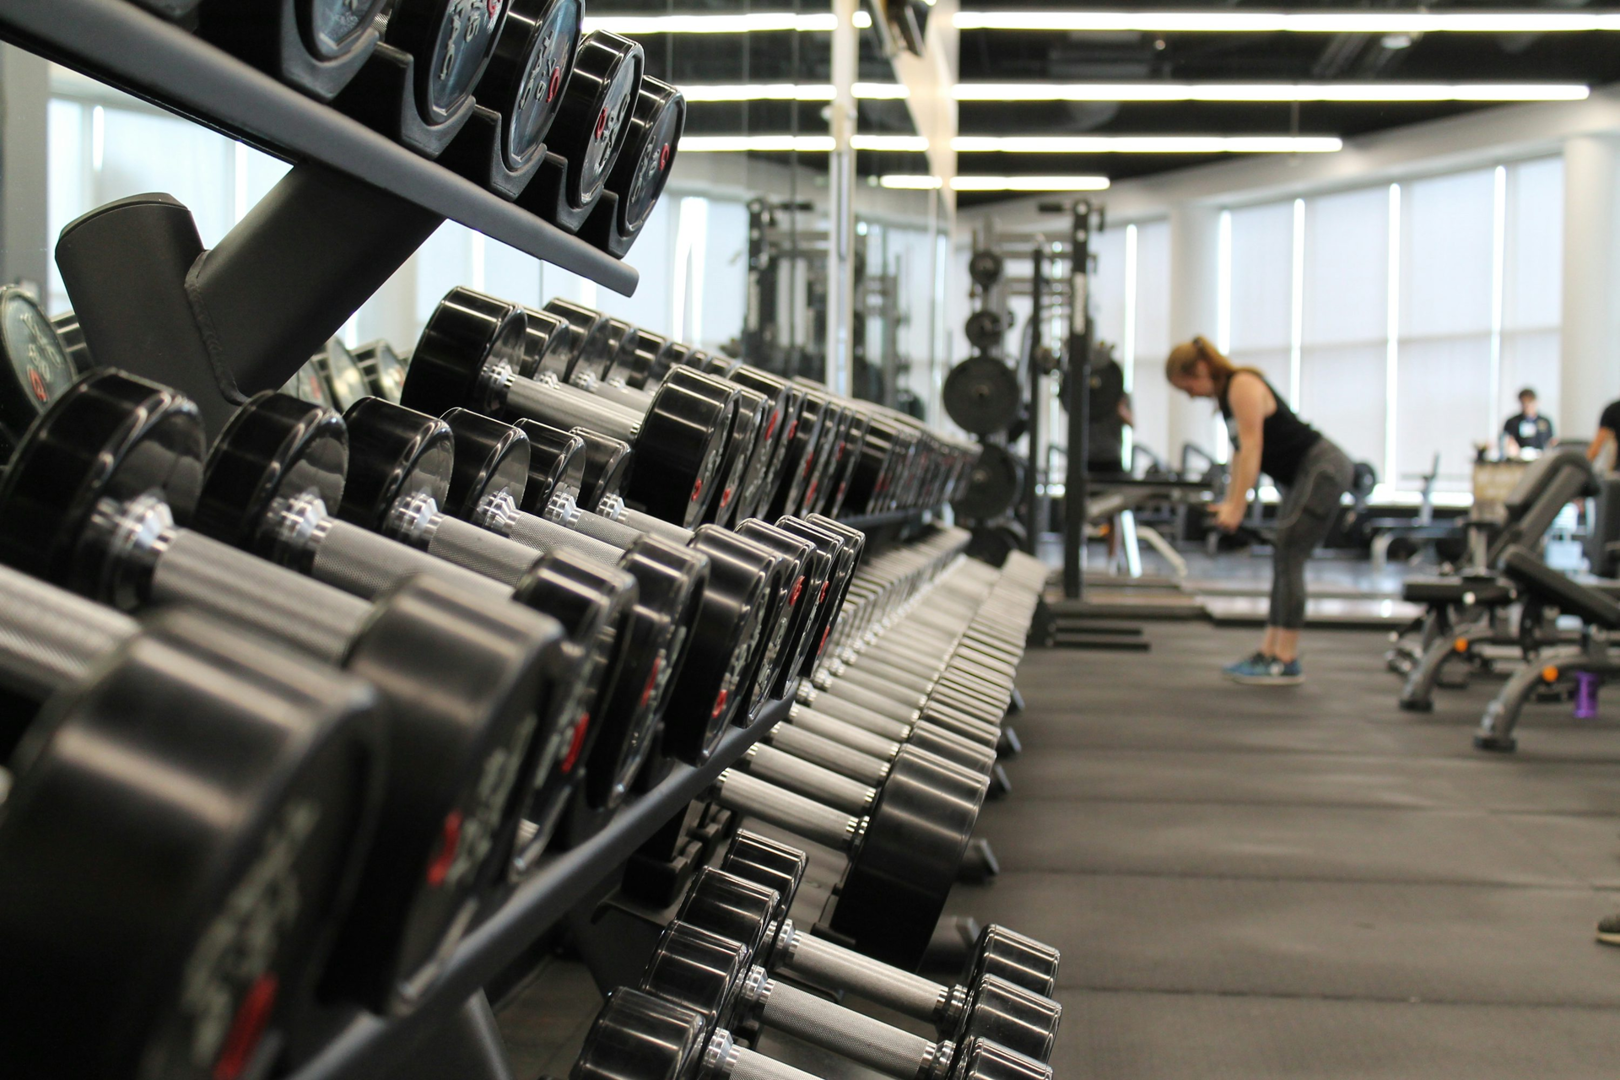
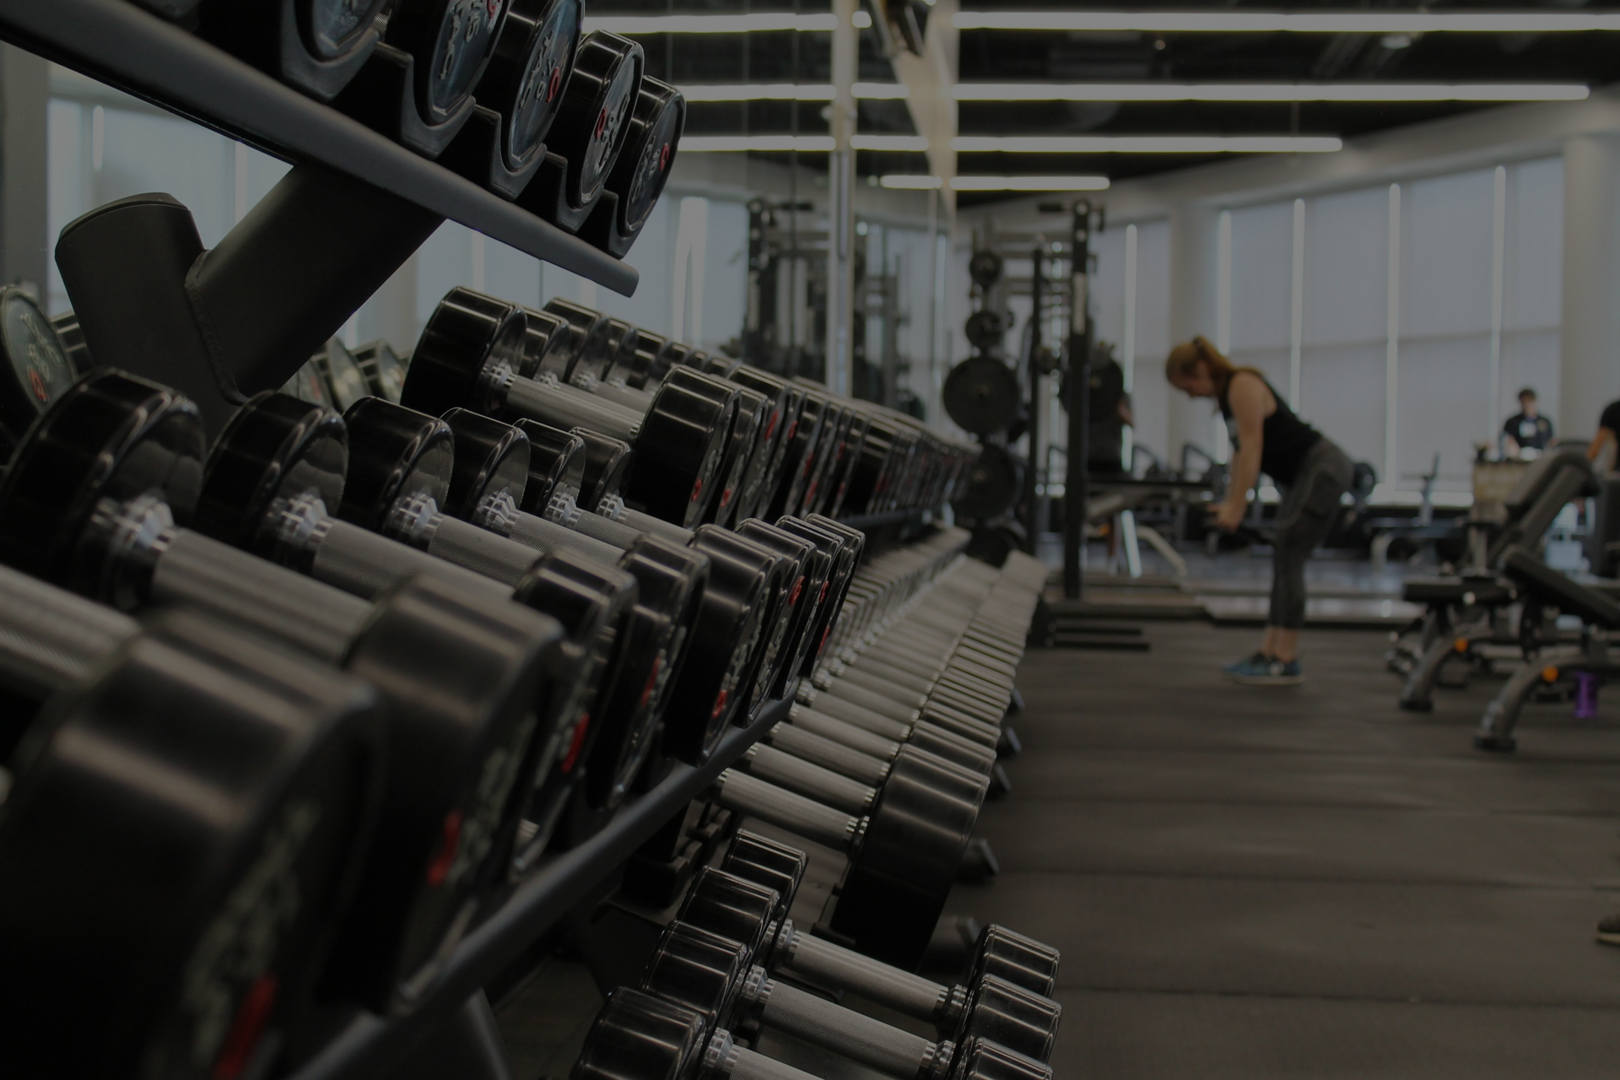
login page ugly!!!

diff --git a/src/Components/Login.tsx b/src/Components/Login.tsx
@@ -1,0 +1,71 @@
+import { useRef, useState } from "react";
+import "./Login.css";
+import { useNavigate } from "react-router-dom";
+
+const Login = () => {
+  const [errorMSG, setErrorMSG] = useState("");
+
+  const email = useRef("");
+  const password = useRef("");
+
+  const navigate = useNavigate();
+
+  const try_logging_in = (e: React.FormEvent, setErrorMSG: React.Dispatch<React.SetStateAction<string>>) => {
+    e.preventDefault();
+    console.log(
+      JSON.stringify({
+        email: email.current,
+        password: password.current,
+      })
+    );
+    fetch("http://localhost:3001/api/auth/", {
+      credentials: "include",
+      method: "POST",
+      body: JSON.stringify({
+        email: email.current,
+        password: password.current,
+      }),
+      headers: {
+        "Content-Type": "application/json",
+      },
+    })
+      .then((response: Response) => {
+        if (response.status >= 200 && response.status <= 299)
+          response.text().then((token) => {
+            console.log(token);
+            navigate("/account");
+          });
+        else {
+          response.text().then((error) => {
+            setErrorMSG(error);
+          });
+        }
+      })
+      .catch((e) => {
+        console.error(e);
+      });
+  };
+
+  return (
+    <>
+      <div className="login-bg-image" />
+      <div className="login-panel">
+        <div className="top-text">Login</div>
+        <form
+          onSubmit={(e) => {
+            try_logging_in(e, setErrorMSG);
+          }}
+        >
+          <input type="text" id="email" name="email" onChange={(e) => (email.current = e.target.value)} />
+          <br />
+          <input type="text" id="password" itemType="password" name="password" onChange={(e) => (password.current = e.target.value)} />
+          <br />
+          <input type="submit" value="Login" />
+        </form>
+        <p className="error">{errorMSG}</p>
+      </div>
+    </>
+  );
+};
+
+export default Login;

diff --git a/src/Components/Login.css b/src/Components/Login.css
@@ -1,0 +1,38 @@
+.login-bg-image {
+    background-repeat: no-repeat;
+    width: 100vw;
+    height: 100vh;
+    position: absolute;
+    top: 0;
+    left: 0;
+    z-index: -1;
+    background-image: url("../assets/images/loginpage/background.png");
+    background-size: 100vw 100vh;
+}
+
+.login-panel {
+    width: 35vw;
+    height: 90vh;
+    background-color: rgba(255, 255, 255, 0.75);
+    position: absolute;
+    left: 32.5vw;
+    top: 5vh;
+    border-radius: 5%;
+    display: flex;
+    color: black;
+    font-size: 64pt;
+    justify-content: center;
+    flex-wrap: wrap;
+}
+
+.top-text {
+    width: 100%;
+    text-align: center;
+}
+
+.error {
+    width: 100%;
+    color: red;
+    text-align: center;
+    font-size: 20pt;
+}

diff --git a/src/Components/Exercises.tsx b/src/Components/Exercises.tsx
@@ -100,7 +100,7 @@ const Exercises = () => {
   const [exercises, setExercises] = useState([] as Exercise[]);
   const [selectedExercise, setSelectedExercise] = useState(null as Exercise | null);
   const equipmentFilter = useRef(EquipmentFilter.NONE);
-  const primaryMusclesFilter = useRef(PrimaryMuscleFilter.NONE);
+  const primaryMusclesFilter = useRef(PrimaryMuscleFilter.GLUTES);
   const difficultyFilter = useRef(LevelFilter.NONE);
 
   useEffect(() => {
@@ -112,7 +112,7 @@ const Exercises = () => {
 
     console.log(searchParams);
 
-    fetch("http://104.198.31.122:3001/exercises?" + searchParams, {
+    fetch("http://localhost:3001/exercises?" + searchParams, {
       method: "GET",
     })
       .then((results) => {

diff --git a/src/Components/Accounts.tsx b/src/Components/Accounts.tsx
@@ -1,0 +1,31 @@
+import { useEffect, useState } from "react";
+
+interface AccountInfo {
+  id: string;
+  name: string;
+  username: string;
+  email: string;
+}
+
+const Accounts = () => {
+  const [accountInfo, setAccountInfo] = useState({} as AccountInfo);
+  useEffect(() => {
+    fetch("http://localhost:3001/api/auth/me", {
+      method: "GET",
+      credentials: "include",
+    }).then((res) => {
+      res.json().then((json) => {
+        setAccountInfo(json);
+      });
+    });
+  });
+
+  return (
+    <>
+      name: {accountInfo.name} {accountInfo.username} <br />
+      email: {accountInfo.email}
+    </>
+  );
+};
+
+export default Accounts;

diff --git a/src/main.tsx b/src/main.tsx
@@ -5,6 +5,8 @@ import "./index.css";
 import { createBrowserRouter, RouterProvider } from "react-router-dom";
 import HomePage from "./Components/HomePage.tsx";
 import Exercises from "./Components/Exercises.tsx";
+import Login from "./Components/Login.tsx";
+import Accounts from "./Components/Accounts.tsx";
 
 const router = createBrowserRouter([
   {
@@ -14,6 +16,14 @@ const router = createBrowserRouter([
   {
     path: "/exercises",
     element: <Exercises />,
+  },
+  {
+    path: "/login",
+    element: <Login />,
+  },
+  {
+    path: "/account",
+    element: <Accounts />,
   },
 ]);
 
